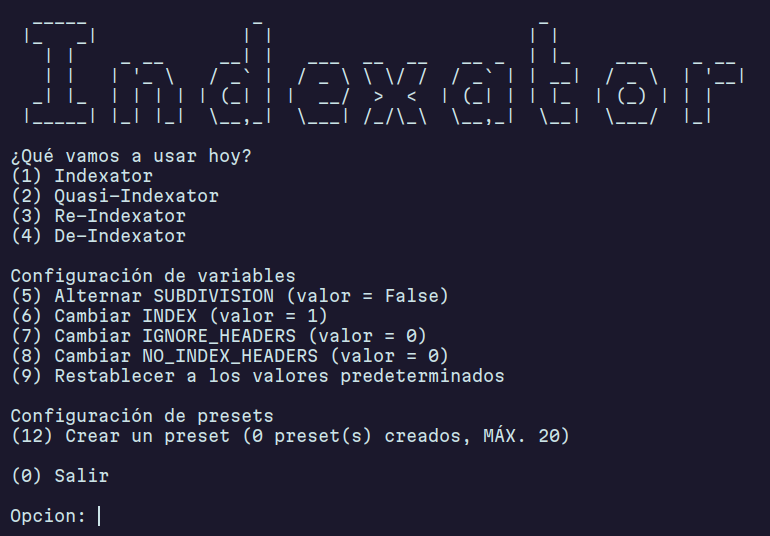
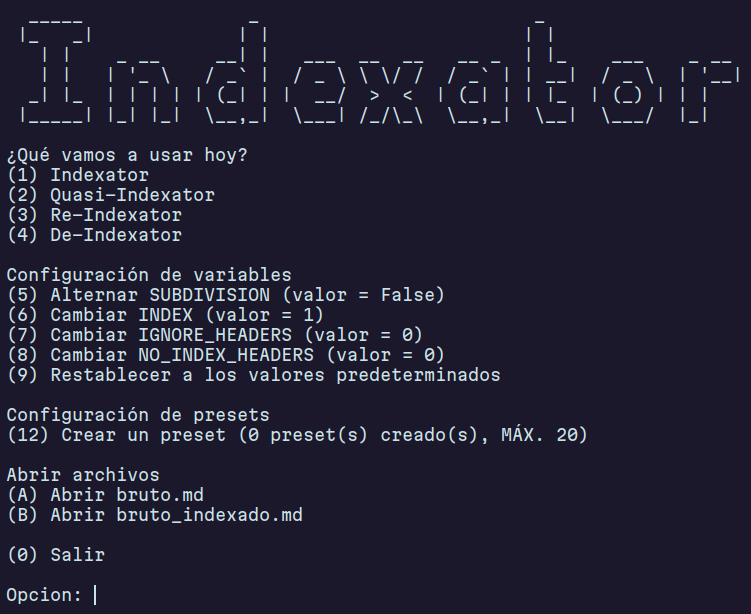
Update README.md

diff --git a/README.md b/README.md
@@ -102,6 +102,8 @@ En la <u><strong>Configuración de variables</strong></u> podemos **cambiar los 
 
 En la <u><strong>Configuración de presets</strong></u> tenemos solo una opción, para crear **presets**. Si pretendes usar varias veces una misma configuración de variables (que no sea la predeterminada), puedes **guardarlas en un preset** y usarlo para indexar sin tener que cambiar los valores de las variables manualmente (ver _[Presets](#Presets)_). 
 
+Las opciones de <u><strong>Abrir archivos</strong></u> permiten abrir los archivos usados por el programa, `bruto.md` y `bruto_indexado.md`, desde la terminal, usando el lector asociado por defecto.
+
 Cuando crees presets, aparecerán más opciones en el menú:
 
 <div align="center">
@@ -282,7 +284,7 @@ Cabe resaltar que estas configuraciones pueden usarse tanto como si se indexa po
 - El programa no detecta encabezados escritos en bloques de código (todo lo que esté entre backsticks, ```), como pueden ser los ejemplos de este readme.
 
 - Cuando se usa la función `Re-Indexator` o `De-Indexator`, es muy importante que el formato sea preciso:
-	- <strong>Si pasas el bruto <u>con índice</u></strong>, es muy importante que esté escrito entre "---", de la siguiente manera:
+	- <strong>Si pasas el bruto <u>con índice</u></strong>, es muy importante que esté escrito entre "---", de la siguiente manera al usar cualquiera de las funciones mencionadas:
 	```
 	---
 	## 1. Titulo de ejemplo 1
@@ -290,6 +292,15 @@ Cabe resaltar que estas configuraciones pueden usarse tanto como si se indexa po
 	### 2.1 Titulo de ejemplo 2.1
 	---
 	```
-	- <strong>Si pasas el bruto <u>sin índice</u></strong>, no tienes que preocuparte por nada, pero téngase en cuenta que el programa detecta que el bruto no tiene índice **si no encuentra el encabezado** `# Índice de contenidos` al principio del documento.
+	- <strong>Si pasas el bruto <u>sin índice</u></strong> y usas la función `Re-Indexator`, debes escribir "---" antes del inicio del texto a indexar:
+	
+	```
+	---
+	## 1. Titulo de ejemplo 1
+	## 2. Titulo de ejemplo 2
+	### 2.1 Titulo de ejemplo 2.1
+	```
+
+	- El programa detecta que el bruto no tiene índice **si no encuentra el encabezado** `# Índice de contenidos` al principio del documento.
 
 	- En ambos casos, el índice se borrará y se creará uno nuevo. Es de gran importancia que se cumpla el formato especificado, de lo contrario el programa podría no borrar el índice o no indexar correctamente.
